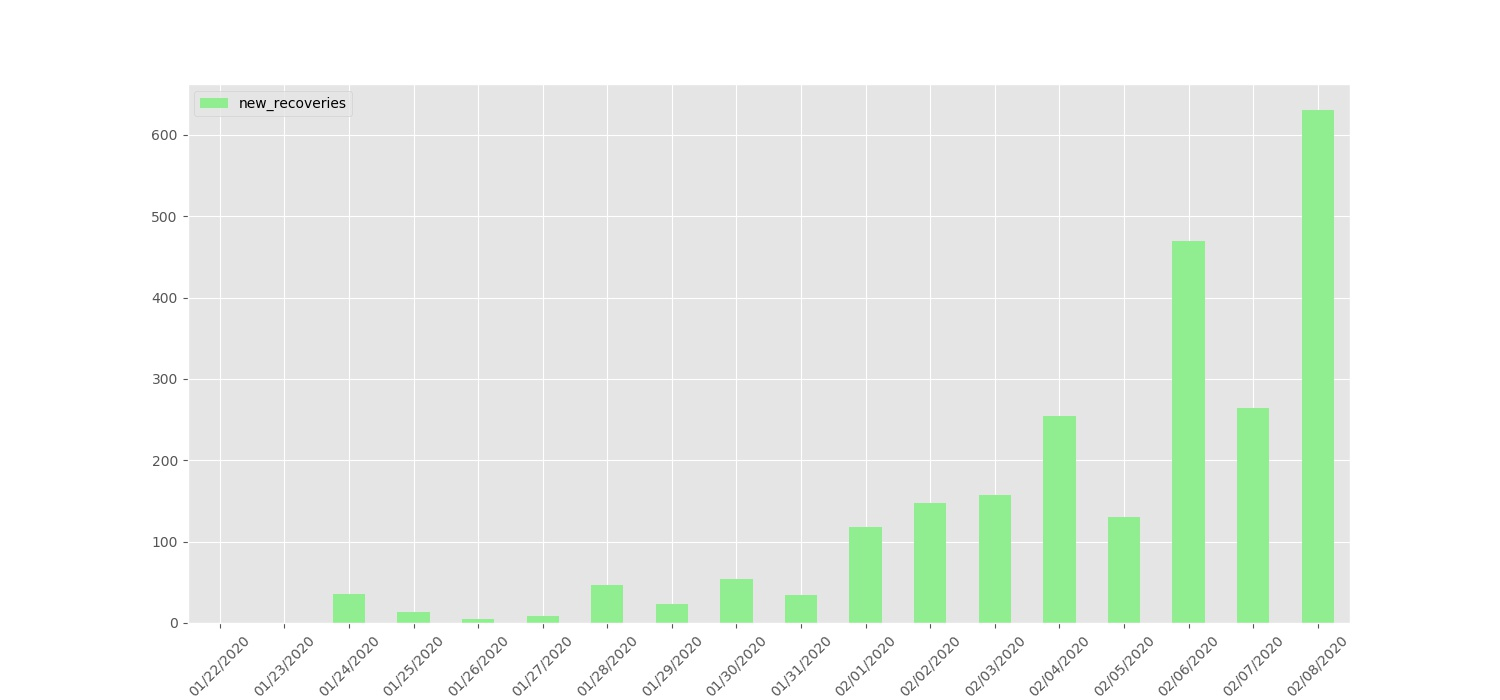
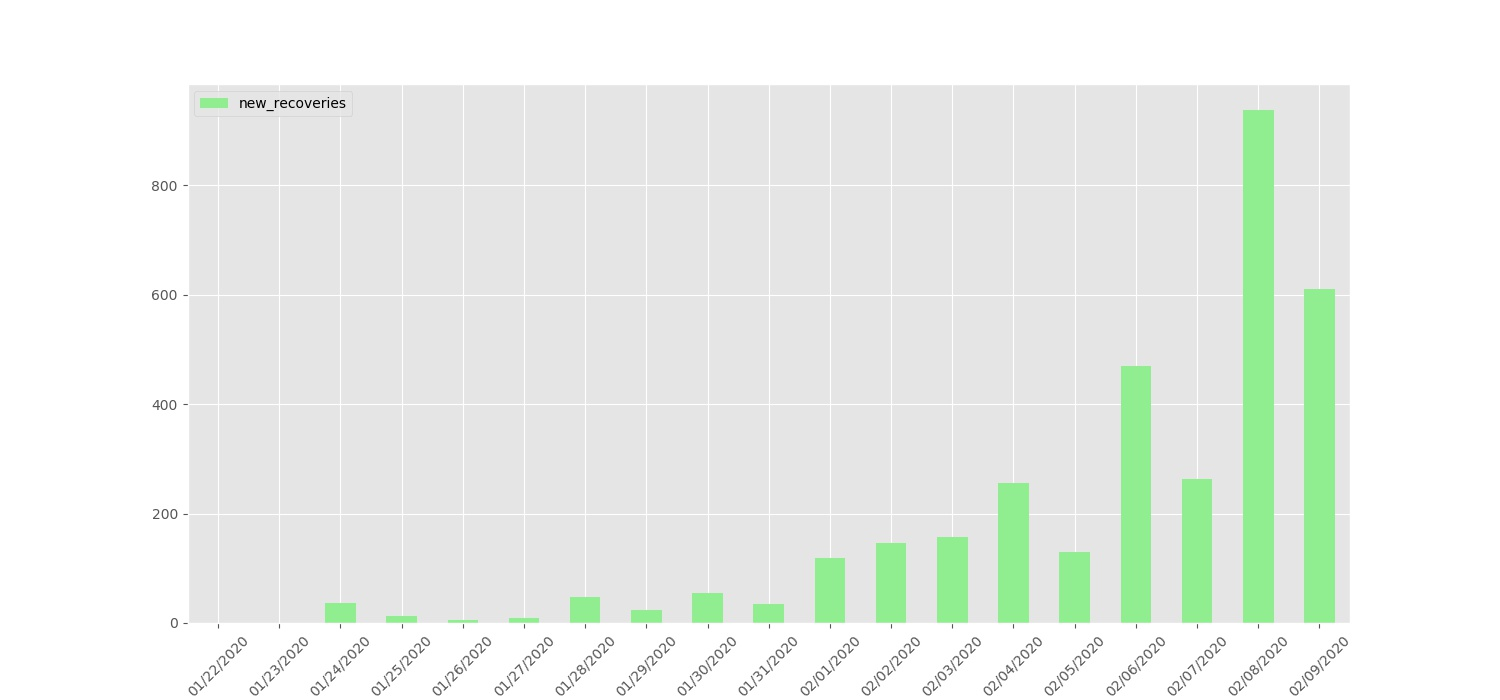
UPDATE - new report for 11th of feb

diff --git a/README.md b/README.md
@@ -27,7 +27,7 @@ This plots will be updated <u>daily</u> to visualize the trend in accumalitive s
 - **<i>Deaths</i>**
 - **<i>Recoveries.</i>**
 
-Last updated:  `2020-02-08`
+Last updated:  `2020-02-11`
 
 **Confirmed Cases**
 
